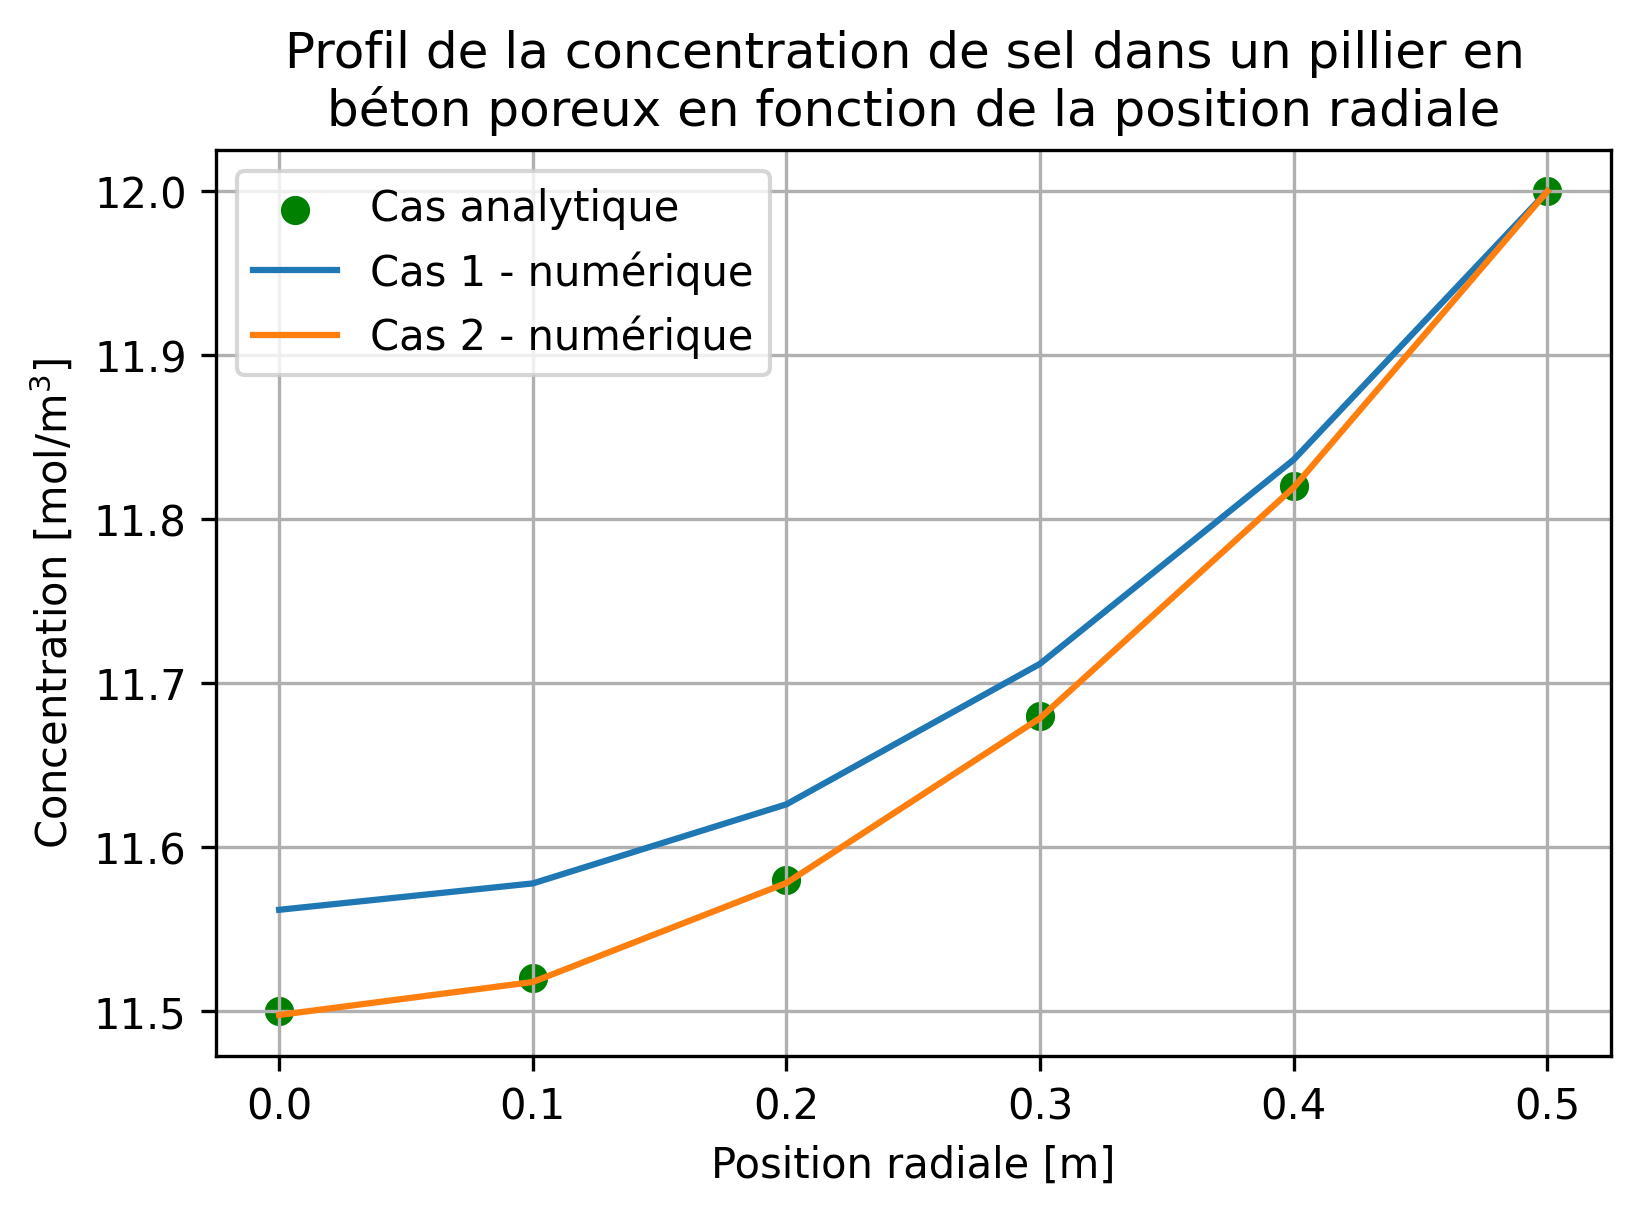
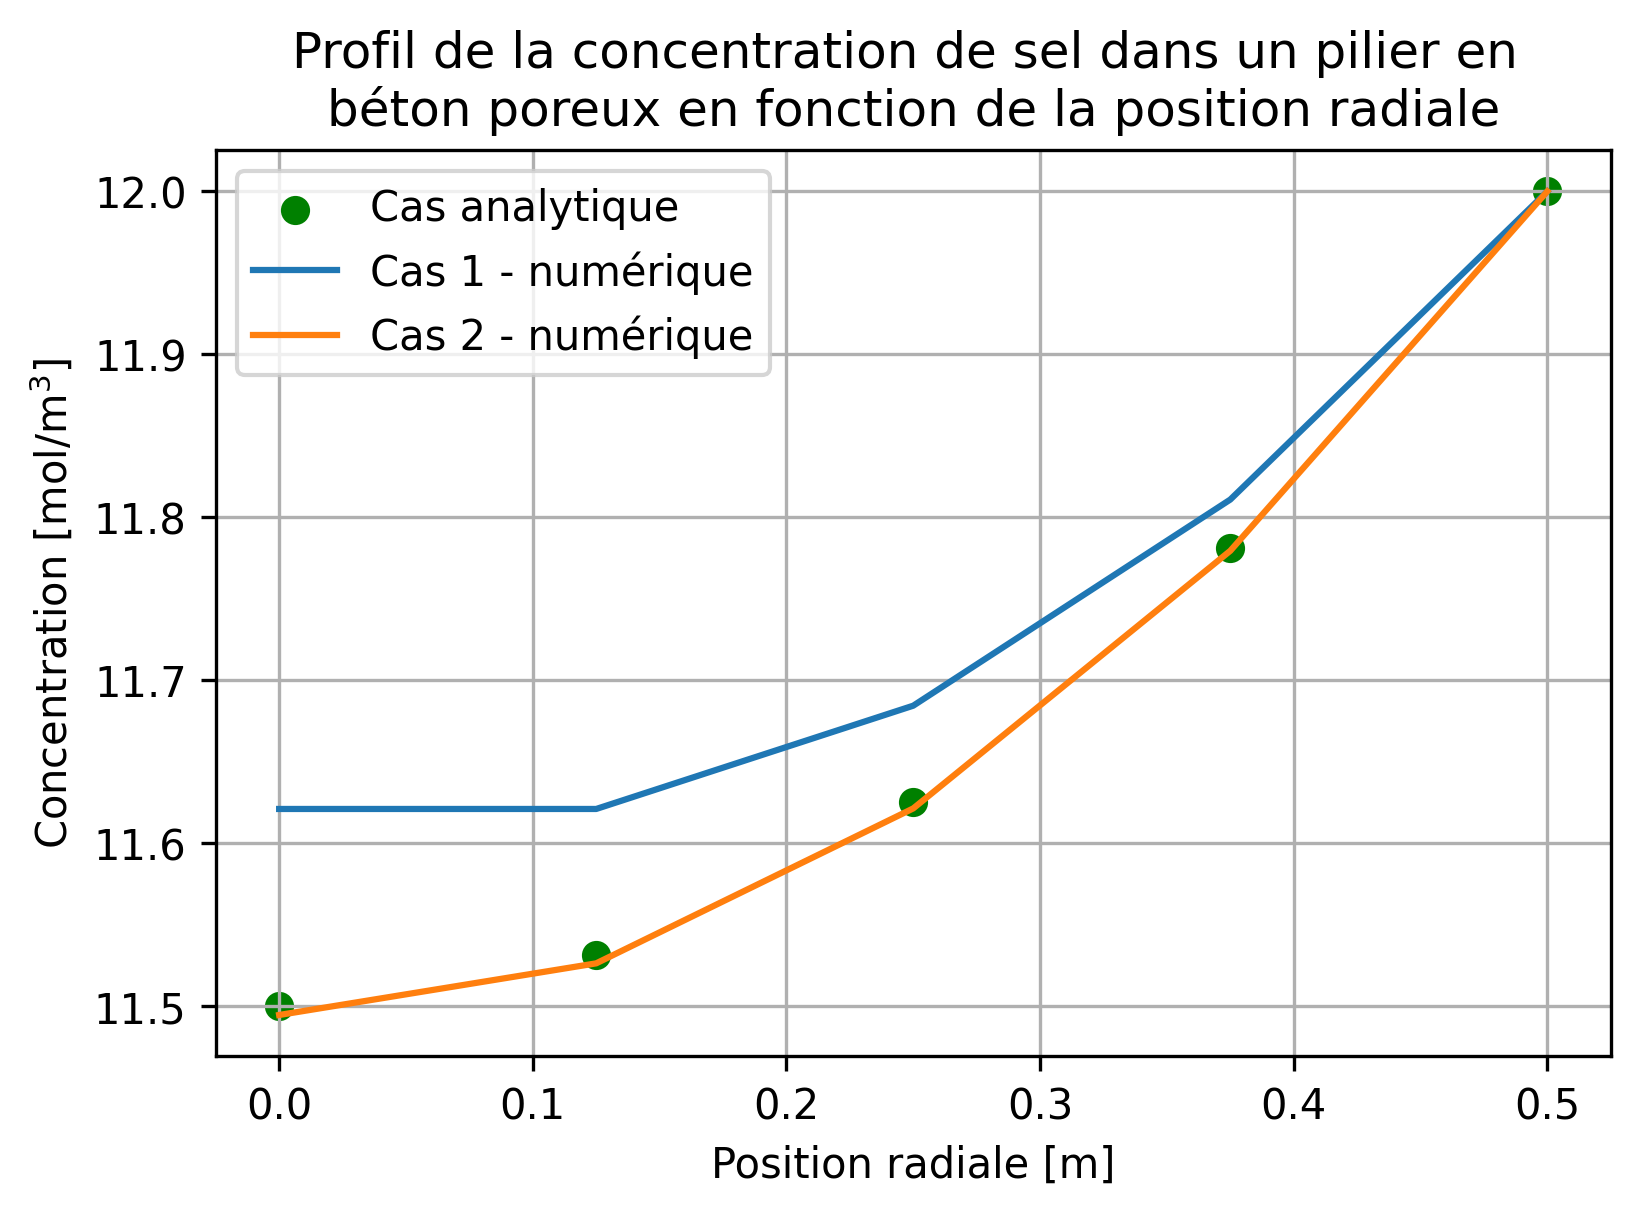
Modifications

diff --git a/main.py b/main.py
@@ -2,11 +2,11 @@
 
 OUTIL NUMÉRIQUE DE SIMULATION DE LA DIFFUSION DU SEL DANS UN PILIER EN BÉTON POREUX
 
-                            >FICHIER PRINCIPALE<
+                            >FICHIER PRINCIPAL<
 
-AUTEUR: EROJ MOHAMMAD ISHOQ, COLIN BISSONNETTE-CAMPEAU, TRISTAN SÉGUIN
+AUTEUR: EROJ MOHAMMAD ISHOQ, COLIN BISSONNETTE-CAMPEAU, TRISTAN ANCEL-SÉGUIN
 CRÉATION: 04 FÉVRIER 2024
-MISE À JOURS: 11 FÉVRIER 2024
+MISE À JOUR: 11 FÉVRIER 2024
 
 """
 
@@ -80,7 +80,8 @@ for i in range (len(C_act_vect)):
     Linf = f_Linf(C_act_vect[i], C_anal) # Calcul de l'erreur Linf
     
     # affichage des résultats
-    print('Cas '+ str(i))
+    print('Cas '+ str(i+1))
+    print('Nombre de points :',prm.N)
     print('Erreur L1 : ',L1)
     print('Erreur L2 : ',L2)
     print('Erreur Linf : ',Linf)
@@ -91,7 +92,7 @@ plt.plot(vec_r,C_act_1,label='Cas 1 - numérique')
 plt.plot(vec_r,C_act_2,label='Cas 2 - numérique')
 plt.xlabel("Position radiale [m]")
 plt.ylabel("Concentration [mol/m$^3$]")
-plt.title("Profil de la concentration de sel dans un pillier en \nbéton poreux en fonction de la position radiale")
+plt.title("Profil de la concentration de sel dans un pilier en \nbéton poreux en fonction de la position radiale")
 plt.legend()  
 plt.grid()
 plt.savefig("concentration.png", dpi=300,bbox_inches='tight')

diff --git a/classe.py b/classe.py
@@ -3,7 +3,7 @@
 OUTIL NUMÉRIQUE DE SIMULATION DE LA DIFFUSION DU SEL DANS UN PILIER EN BÉTON POREUX
                             >FICHIER CLASSE<
 
-AUTEUR: EROJ MOHAMMAD ISHOQ, COLIN BISSONNETTE-CAMPEAU, TRISTAN SÉGUIN
+AUTEUR: EROJ MOHAMMAD ISHOQ, COLIN BISSONNETTE-CAMPEAU, TRISTAN ANCEL-SÉGUIN
 CRÉATION: 04 FÉVRIER 2024
 MISE À JOURS: 11 FÉVRIER 2024
 
@@ -26,11 +26,11 @@ class prm:
     
     S = 8e-9 # Coefficient terme source constant [mol/m^3/s]
     
-    N = 6 # Nombre de points [-]
+    N = 5 # Nombre de points [-]
     
     delta_r = R/(N-1) # Intervalle spatial [m]
     
-    delta_t = 10000000 # Intervalle temporel [s]
+    delta_t = 5e6 # Intervalle temporel [s]
     
     # Création du vecteur de position
     vec_r = np.zeros(N)

diff --git a/fonction.py b/fonction.py
@@ -3,7 +3,7 @@
 OUTIL NUMÉRIQUE DE SIMULATION DE LA DIFFUSION DU SEL DANS UN PILIER EN BÉTON POREUX
                             >FICHIER FONCTION<
 
-AUTEUR: EROJ MOHAMMAD ISHOQ, COLIN BISSONNETTE-CAMPEAU, TRISTAN SÉGUIN
+AUTEUR: EROJ MOHAMMAD ISHOQ, COLIN BISSONNETTE-CAMPEAU, TRISTAN ANCEL-SÉGUIN
 CRÉATION: 04 FÉVRIER 2024
 MISE À JOURS: 11 FÉVRIER 2024
 
@@ -74,10 +74,16 @@ def f_diff(A, B, C, cas, prm):
 
 
     # Condition de Neumann à i = 0
-
-    mat_C[0,0] = -3
-    mat_C[0,1] = 4
-    mat_C[0,2] = -1
+    
+    if cas == 1:
+        mat_C[0,0] = 1
+        mat_C[0,1] = -1
+    
+    if cas == 2:
+        mat_C[0,0] = -3
+        mat_C[0,1] = 4
+        mat_C[0,2] = -1
+        
     C_ini[0] = 0
 
     # Condition de Dirichlet à i = N
